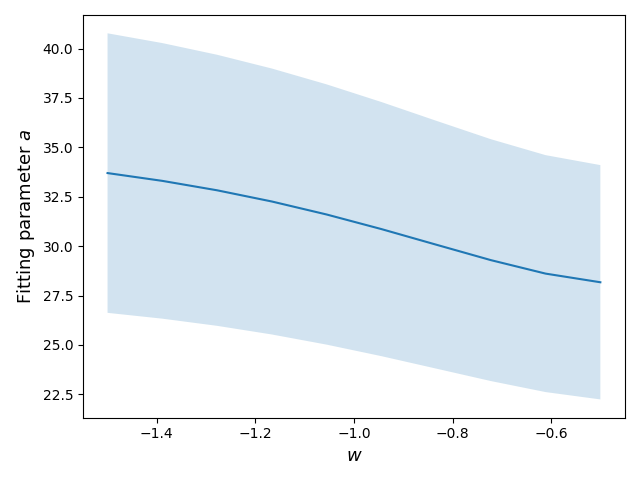
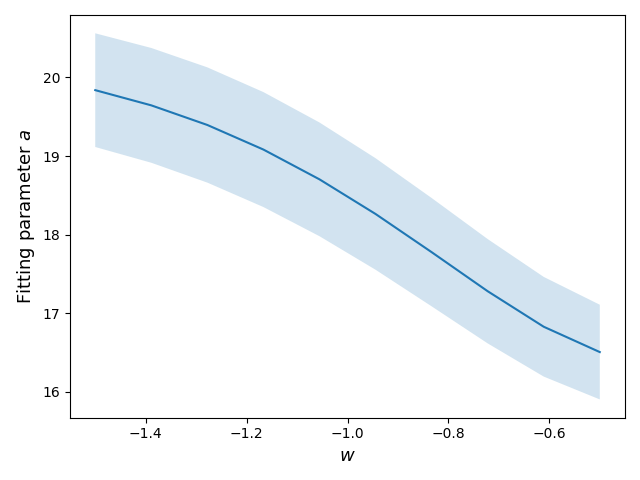
Fitted the relative difference with mass limit

diff --git a/Python/fitPars.py b/Python/fitPars.py
@@ -81,7 +81,7 @@ d_phi1_forward = 1.5e-5
 d_alpha1_backward = 0.02
 d_alpha1_forward = 0.06
 
-ratio = 10
+ratio = 100
 
 # Parameters for varying alpha
 m_alpha = -0.093
@@ -101,7 +101,7 @@ w_0 = -1
 w_1 = 0 
 h_today = 0.7
 
-bin_size = 0.25
+bin_size = 0.01
 z_array = np.linspace(0.01,z_ref,round(z_ref/bin_size))
 h_array = np.linspace(0.60, 0.80, 10)
 om_array = np.linspace(0.1, 0.5, 10)
